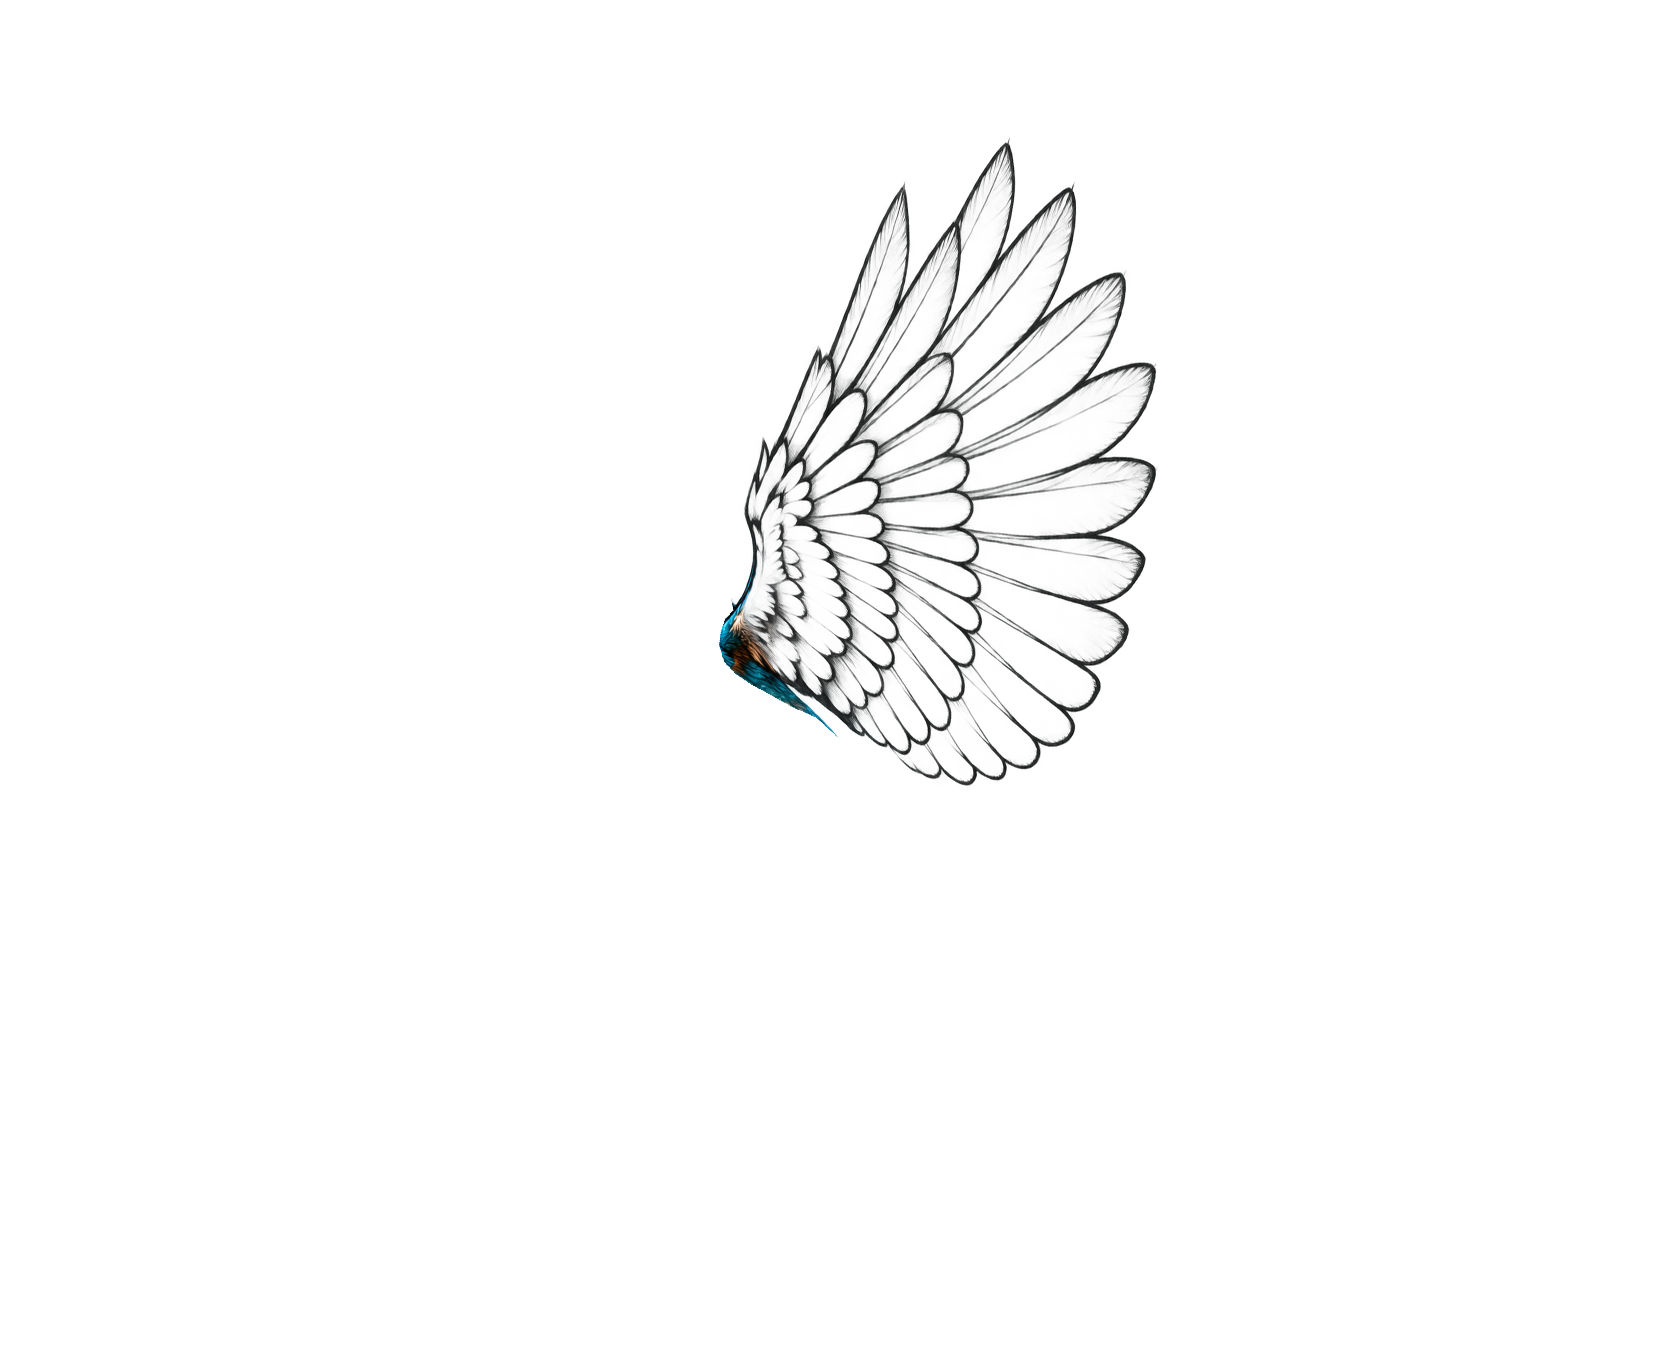
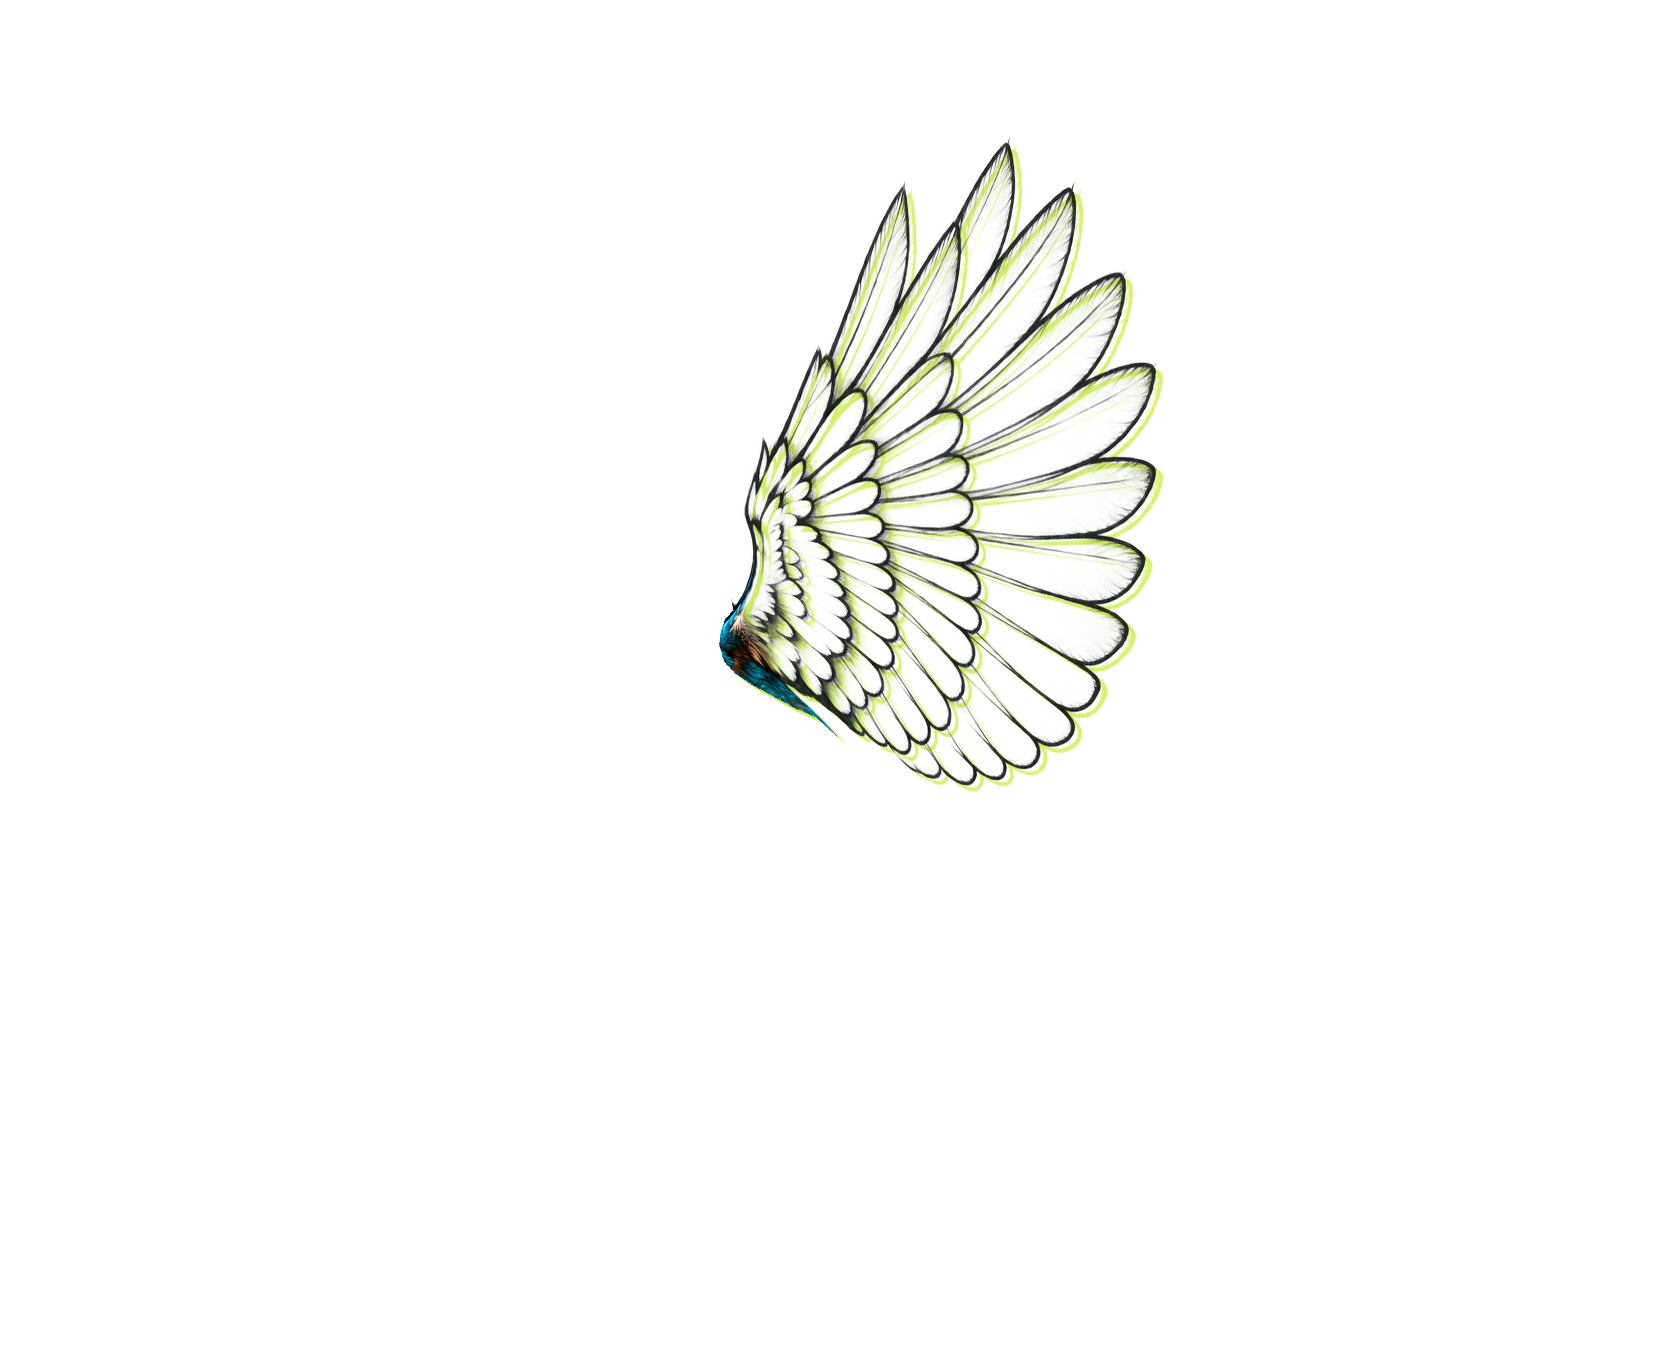
feat(landing): flying bird's pencil wings and tail get a lime offset line
Every black pencil line stays; a kit-lime (#D1EF5A) copy of it sits 7px
right and 6px down behind it, like a second pencil pass.

Changed region(s): [[0.4304, 0.0935, 0.7071, 0.592]]

diff --git a/frontend/src/app/[locale]/(marketing)/_components/FlyingBird.tsx b/frontend/src/app/[locale]/(marketing)/_components/FlyingBird.tsx
@@ -18,7 +18,7 @@ import { useEffect, useRef } from "react";
    renderer is the handoff's own wing-flight.js, unchanged. */
 
 const BIRD = "/landing/bird/";
-const REV = "bird-2026-10-15";
+const REV = "bird-2026-10-15c";
 const ANCHOR = { x: 738, y: 644 };
 const WING_SPEED_MULTIPLIER = 0.25;
 const ARRIVAL_AT = 8120;
